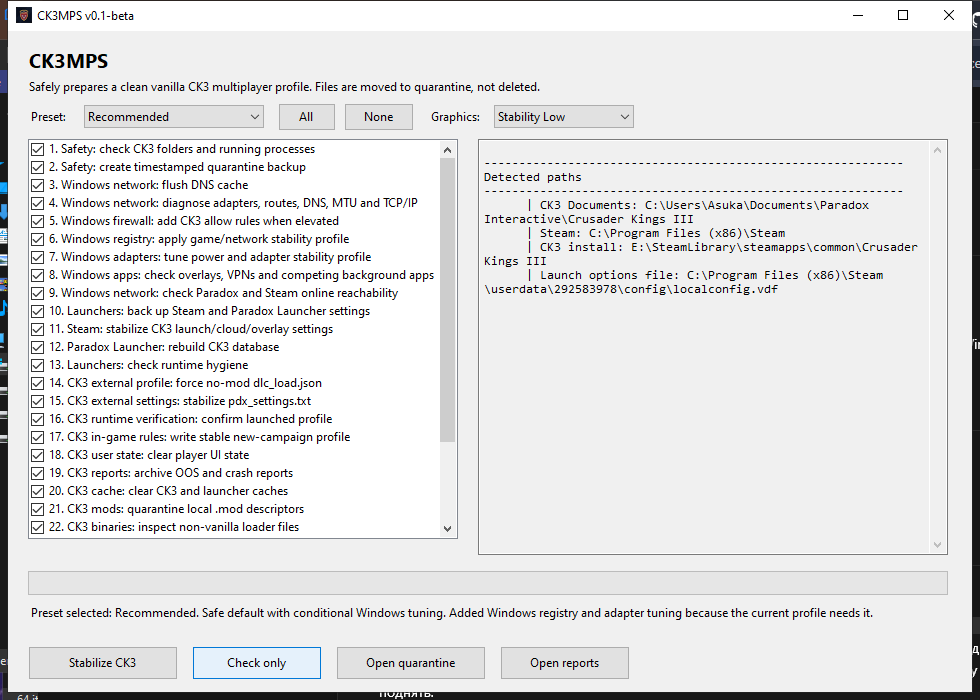
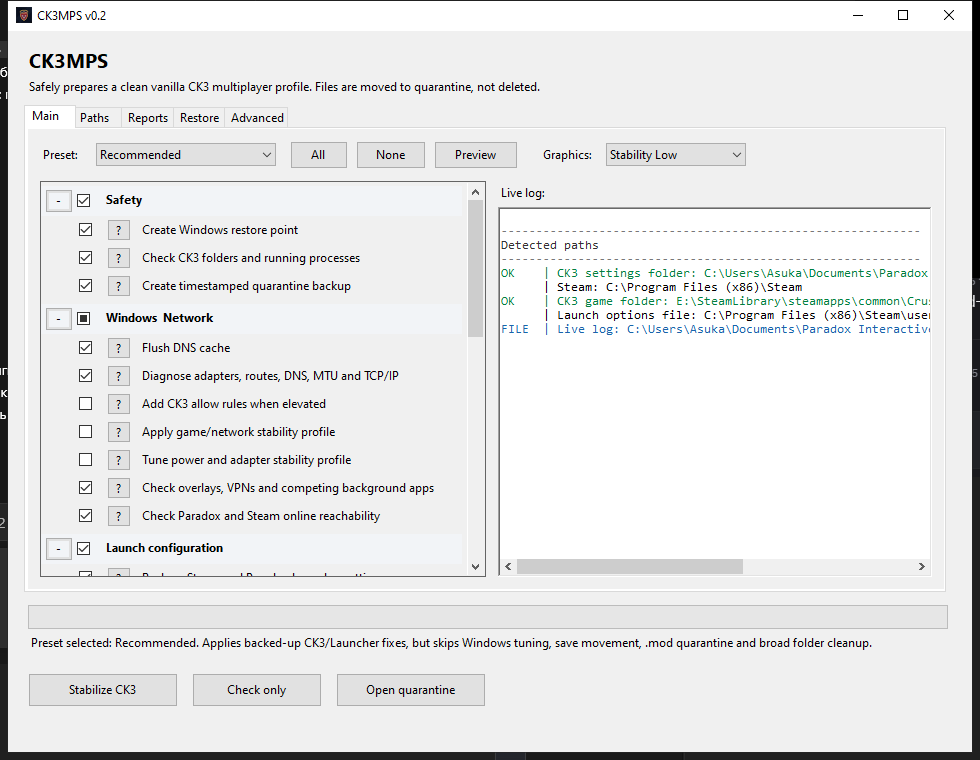
Prepare v0.2 release

diff --git a/docs/release-notes-v0.2.md b/docs/release-notes-v0.2.md
@@ -1,0 +1,31 @@
+## Highlights
+
+- Path validation is now explicit: the app shows when both the CK3 game folder and the Documents settings/saves folder were found and are valid.
+- Restore is substantially stronger: sorting, checkbox-based bulk restore/delete, simpler details, safer default-restore rules, and better rollback coverage.
+- Live logging is clearer and persistent: color-coded output, horizontal readability improvements, and automatic log files in `LiveLogs`.
+- GitHub release updates are now supported in-app with checksum verification before replacement.
+- Portable mode is now real: when enabled, the full CK3MPS working state moves next to the executable in `CK3MPS_Data`.
+
+## Included Files
+
+```text
+CK3MPS.exe
+CK3MPS.exe.sha256
+CK3MPS-v0.2.zip
+CK3MPS-v0.2.zip.sha256
+```
+
+## Recommended Usage
+
+1. Close CK3 and Paradox Launcher.
+2. Start `CK3MPS.exe` as administrator.
+3. Keep `Recommended` unless you explicitly want the broader `Maximum` preset.
+4. Click `Stabilize CK3`.
+5. Run `Check only`.
+6. Review `Restore`, `Reports`, and the generated readiness output before multiplayer.
+
+## Notes
+
+- CK3, Steam, and Paradox Launcher may regenerate caches or launcher-owned files after launch. That is expected.
+- `Portable mode` moves CK3MPS state, logs, restore history, and quarantine data into `CK3MPS_Data` next to the executable.
+- The in-app updater expects the GitHub Release zip asset and its matching `.sha256` checksum file.

diff --git a/CHANGELOG.md b/CHANGELOG.md
@@ -2,16 +2,20 @@
 
 ## Unreleased
 
-- Added polished GitHub README with screenshots, badges, safety notes and release/package links.
-- Added GitHub issue templates, pull request template, build workflow, support, security and contribution notes.
-- Added repository social preview image and screenshot assets.
-- Added GitHub NuGet package helper script.
-- Updated application icon and repository social preview artwork.
+## v0.2
+
+- Added path validation indicators and manual game/settings folder selection with clearer status text.
+- Added live log persistence to `LiveLogs` and improved color-coded log readability.
+- Added GitHub release update detection plus checksum-verified in-app updater flow.
+- Added restore tab sorting, checkbox-based bulk actions, simpler restore UX, and bulk delete.
+- Added per-item restore details, safer default-restore rules, and non-destructive rollback coverage for CK3, launcher, and registry changes.
+- Added portable mode that moves the full CK3MPS state root next to the executable in `CK3MPS_Data`.
+- Added real three-level log verbosity behavior for `Quiet`, `Normal`, and `Verbose`.
+- Improved release packaging, checksums, and GitHub-facing documentation/screenshots for the v0.2 release.
 
 ## v0.1-beta
 
-First beta release.
-
+- First beta release.
 - Added CK3 multiplayer stabilization checklist.
 - Added presets for Recommended, Maximum, clean profile, network, and diagnostics.
 - Added CK3 settings stabilization and rollback guard.

diff --git a/README.md b/README.md
@@ -18,9 +18,9 @@ CK3MPS is a small Windows utility for preparing a cleaner, more predictable Crus
 
 ## Screenshots
 
-| Main window | Presets |
+| Main window | Restore |
 | --- | --- |
-| ![Main window](assets/screenshots/main-window.png) | ![Presets](assets/screenshots/presets.png) |
+| ![Main window](assets/screenshots/main-window.png) | ![Restore](assets/screenshots/restore.png) |
 
 | Check only | Generated report |
 | --- | --- |
@@ -32,7 +32,7 @@ CK3MPS is a small Windows utility for preparing a cleaner, more predictable Crus
 - Applies selected stability actions with visible progress and grouped checklist items.
 - Offers practical presets: Recommended, Maximum, clean profile, network-focused and diagnostic-only flows.
 - Archives OOS and crash evidence without filling the CK3 game folder with stabilizer logs.
-- Writes compact reports to `Documents\Paradox Interactive\CK3MPS`.
+- Writes compact reports, quarantine data, restore history and live logs to `Documents\Paradox Interactive\CK3MPS`, or to `CK3MPS_Data` next to the executable when **Portable mode** is enabled.
 - Keeps the release folder simple: the downloadable app is `release\CK3MPS.exe`.
 
 ## Safety
@@ -57,7 +57,7 @@ CK3MPS is built for local Windows machines and should be run intentionally.
 1. Close CK3 and Paradox Launcher.
 2. Run `CK3MPS.exe` as administrator.
 3. Select **Recommended** for a balanced MP setup, or **Maximum** for the broadest stabilization pass.
-4. Run **Apply Selected**.
+4. Run **Stabilize CK3**.
 5. Run **Check Only**.
 6. Start CK3 and re-check if you want to confirm settings persisted after launch.
 

diff --git a/release/README.md b/release/README.md
@@ -10,11 +10,17 @@ Recommended first run:
 
 1. Close CK3 and Paradox Launcher.
 2. Select `Recommended`.
-3. Click `Apply Selected`.
+3. Click `Stabilize CK3`.
 4. Run `Check Only`.
 
 CK3MPS writes compact reports to:
 
 ```text
 Documents\Paradox Interactive\CK3MPS
+```
+
+If you enable `Portable mode`, CK3MPS instead keeps its working files next to the executable in:
+
+```text
+CK3MPS_Data
 ```

diff --git a/docs/RELEASE.md b/docs/RELEASE.md
@@ -14,7 +14,9 @@ Use this layout for GitHub Releases.
 
 ```text
 CK3MPS.exe
-CK3MPS-v0.1-beta.zip
+CK3MPS-v0.2.zip
+CK3MPS-v0.2.zip.sha256
+CK3MPS.exe.sha256
 ```
 
 ## Recommended Usage
@@ -37,5 +39,5 @@ Generate before publishing:
 
 ```powershell
 Get-FileHash release\CK3MPS.exe -Algorithm SHA256
-Get-FileHash ..\CK3MPS_exports\CK3MPS-v0.1-beta.zip -Algorithm SHA256
+Get-FileHash ..\CK3MPS_exports\CK3MPS-v0.2.zip -Algorithm SHA256
 ```